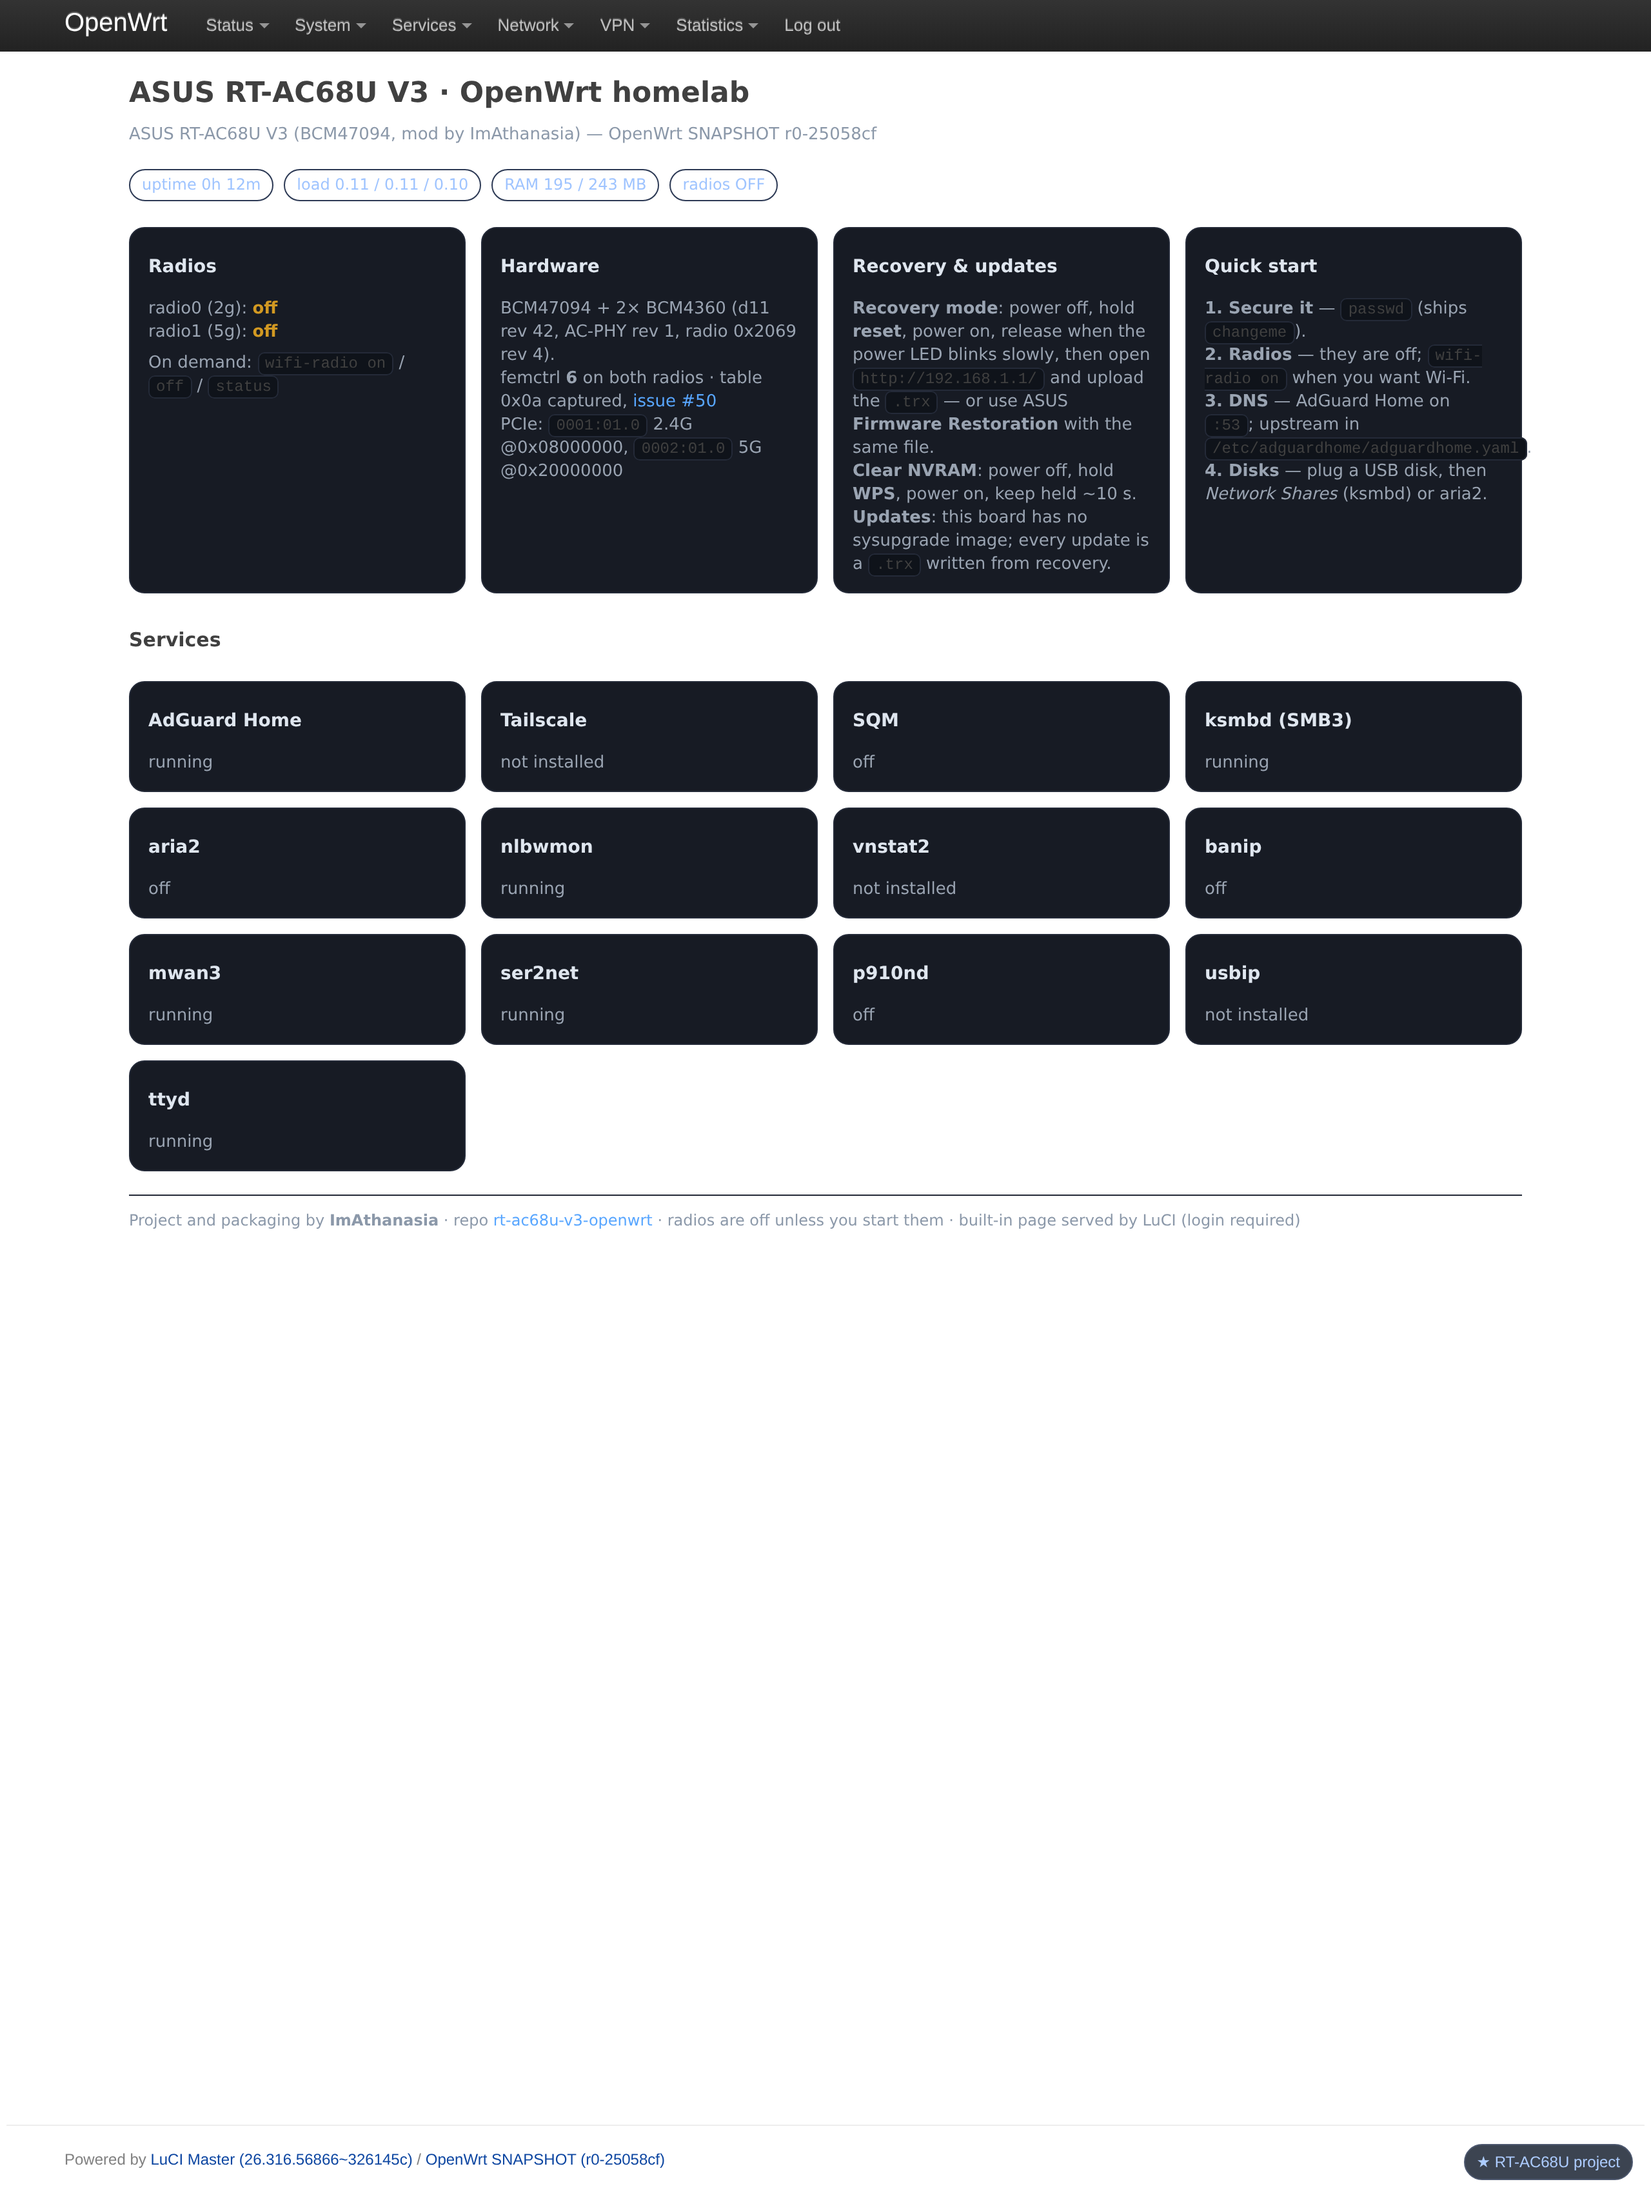
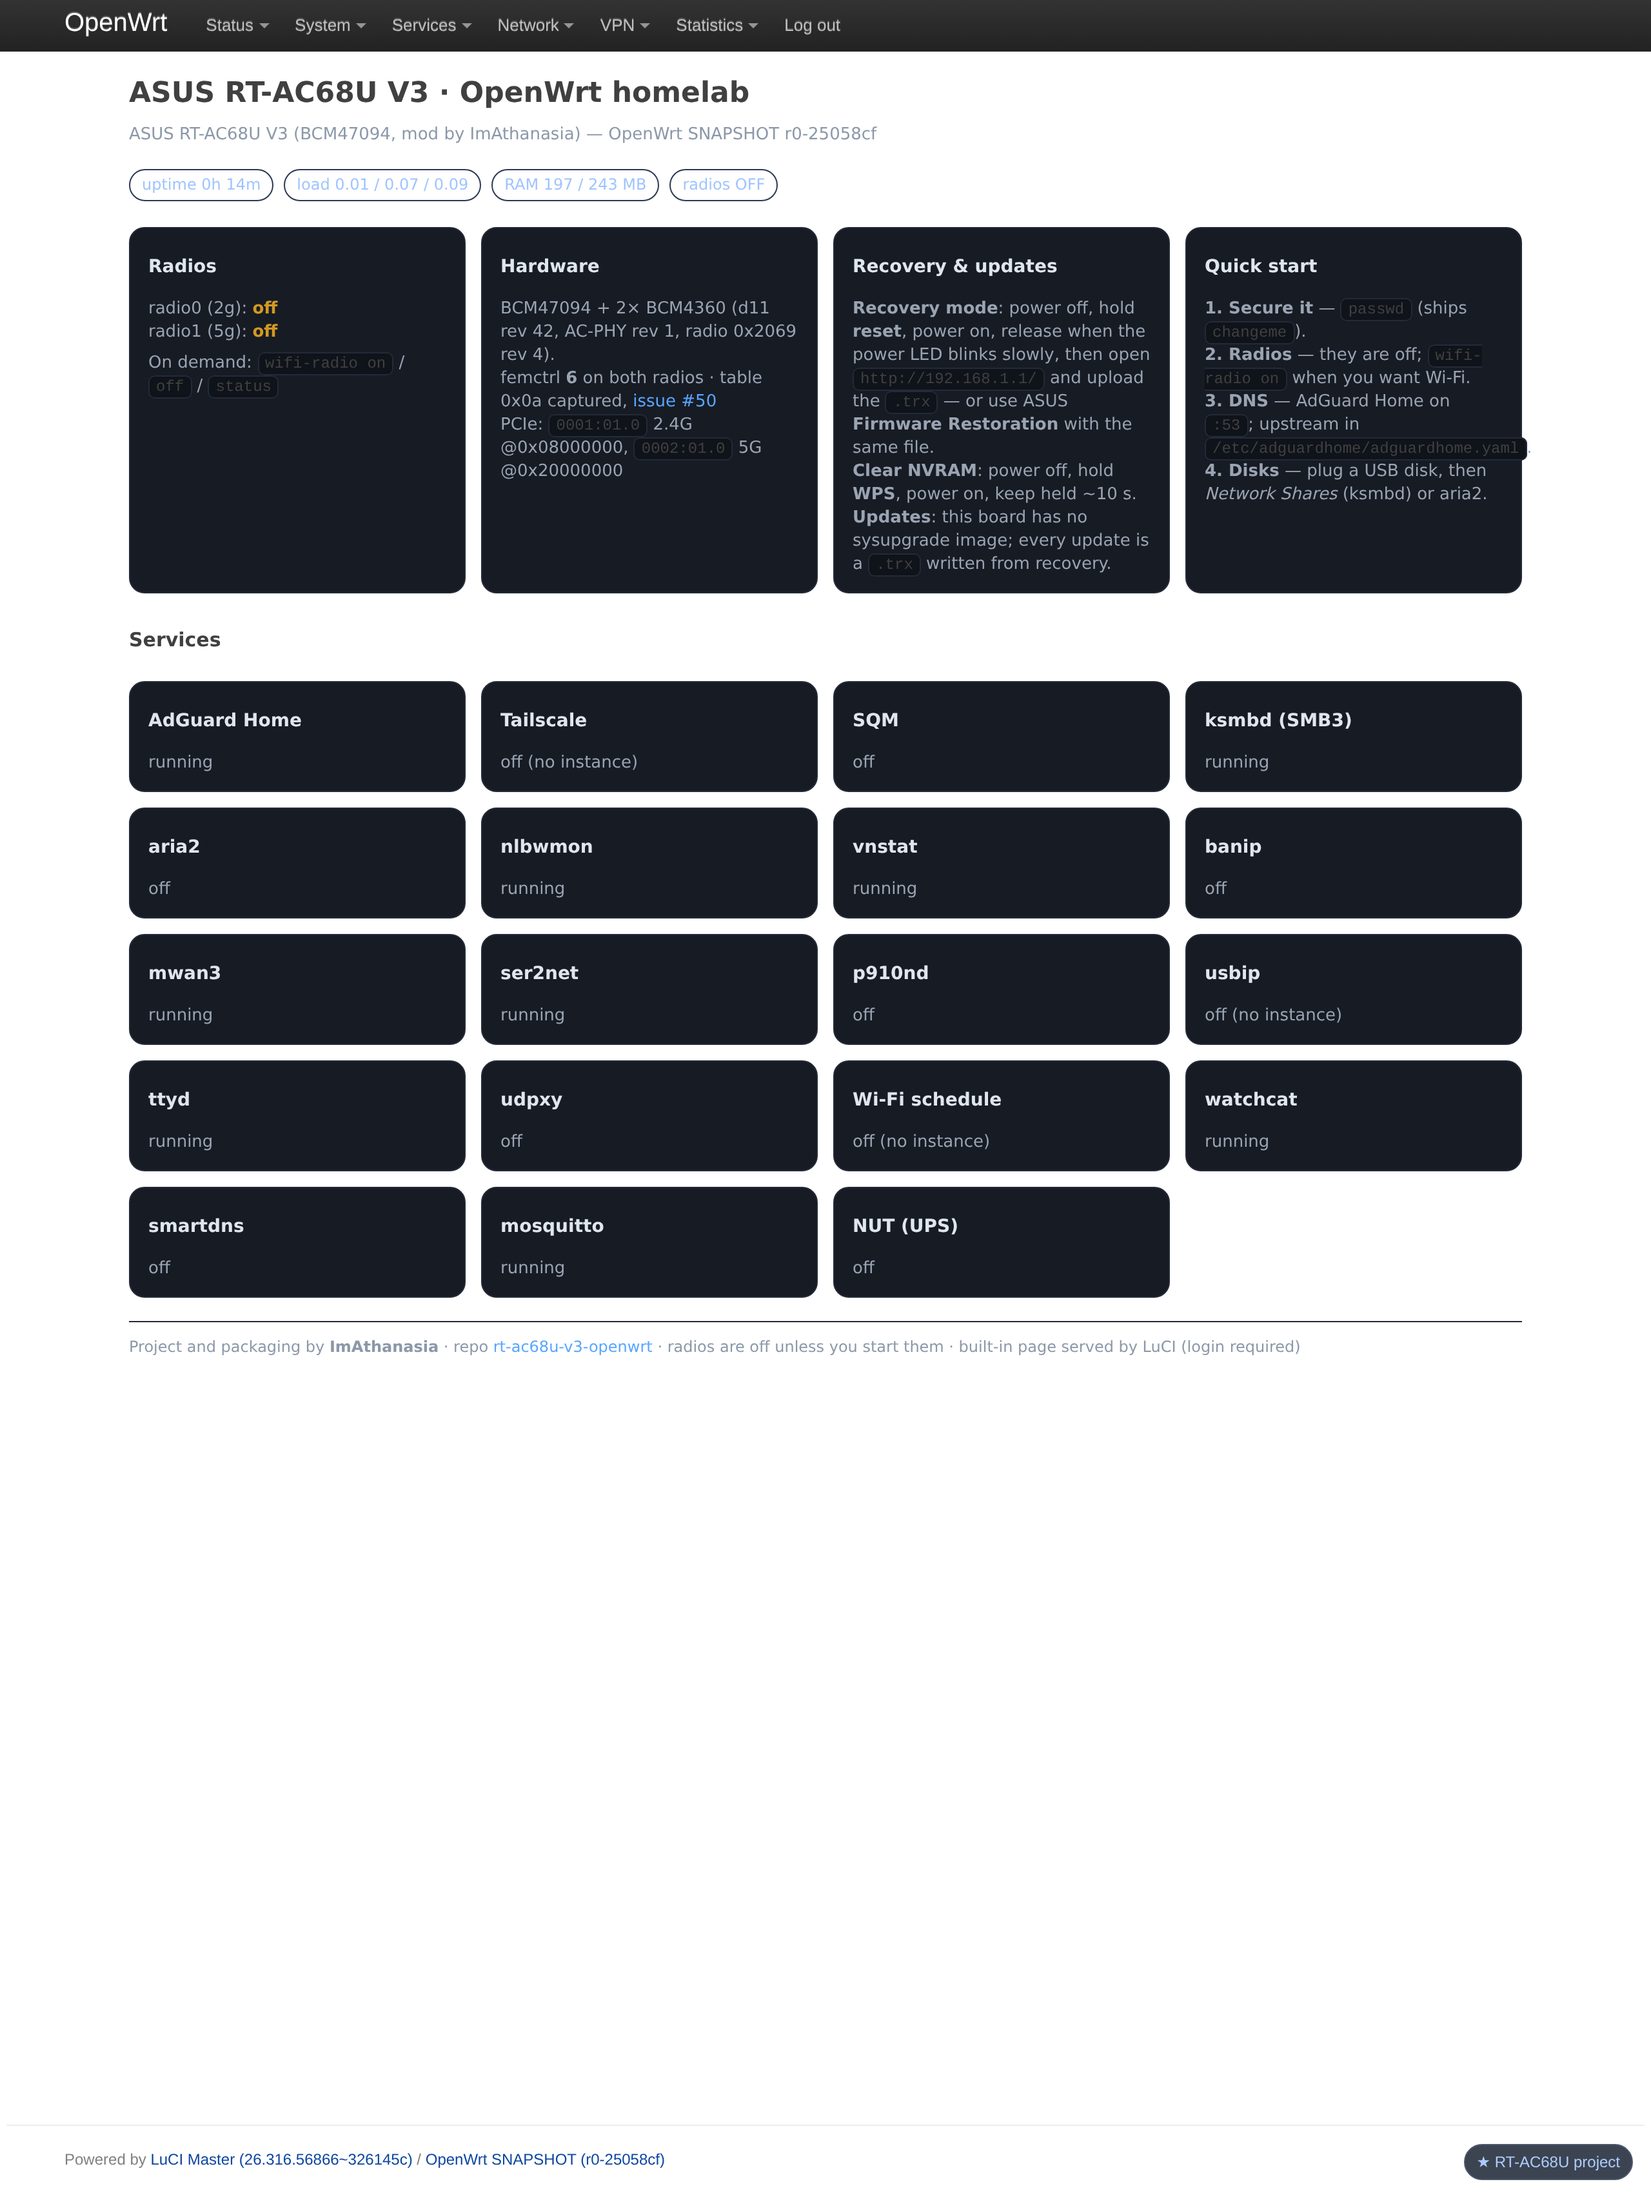
images: refresh project page shot; document the set

Changed region(s): [[0.0625, 0.4676, 0.9375, 0.6235]]

diff --git a/images/README.md b/images/README.md
@@ -1,0 +1,15 @@
+# Screenshots
+
+Captured from this unit with headless Chromium (1440×900, 2× scale, full page for the project
+page). Re-capture with `ROUTER=http://<host>:8181 USER=root PASS=... scripts/screenshots.sh`.
+
+| File | Page |
+|---|---|
+| `luci-login.png` | LuCI login |
+| `luci-overview.png` | Status → Overview |
+| `luci-statistics.png` | Statistics → Graphs |
+| `luci-nlbwmon.png` | Statistics → nlbwmon |
+| `luci-sqm.png` | Services → SQM |
+| `luci-wireless.png` | Network → Wireless (captured with radios on) |
+| `router-page.png` | Services → ★ RT-AC68U (the baked project page) |
+| `adguard.png` | AdGuard Home UI |
